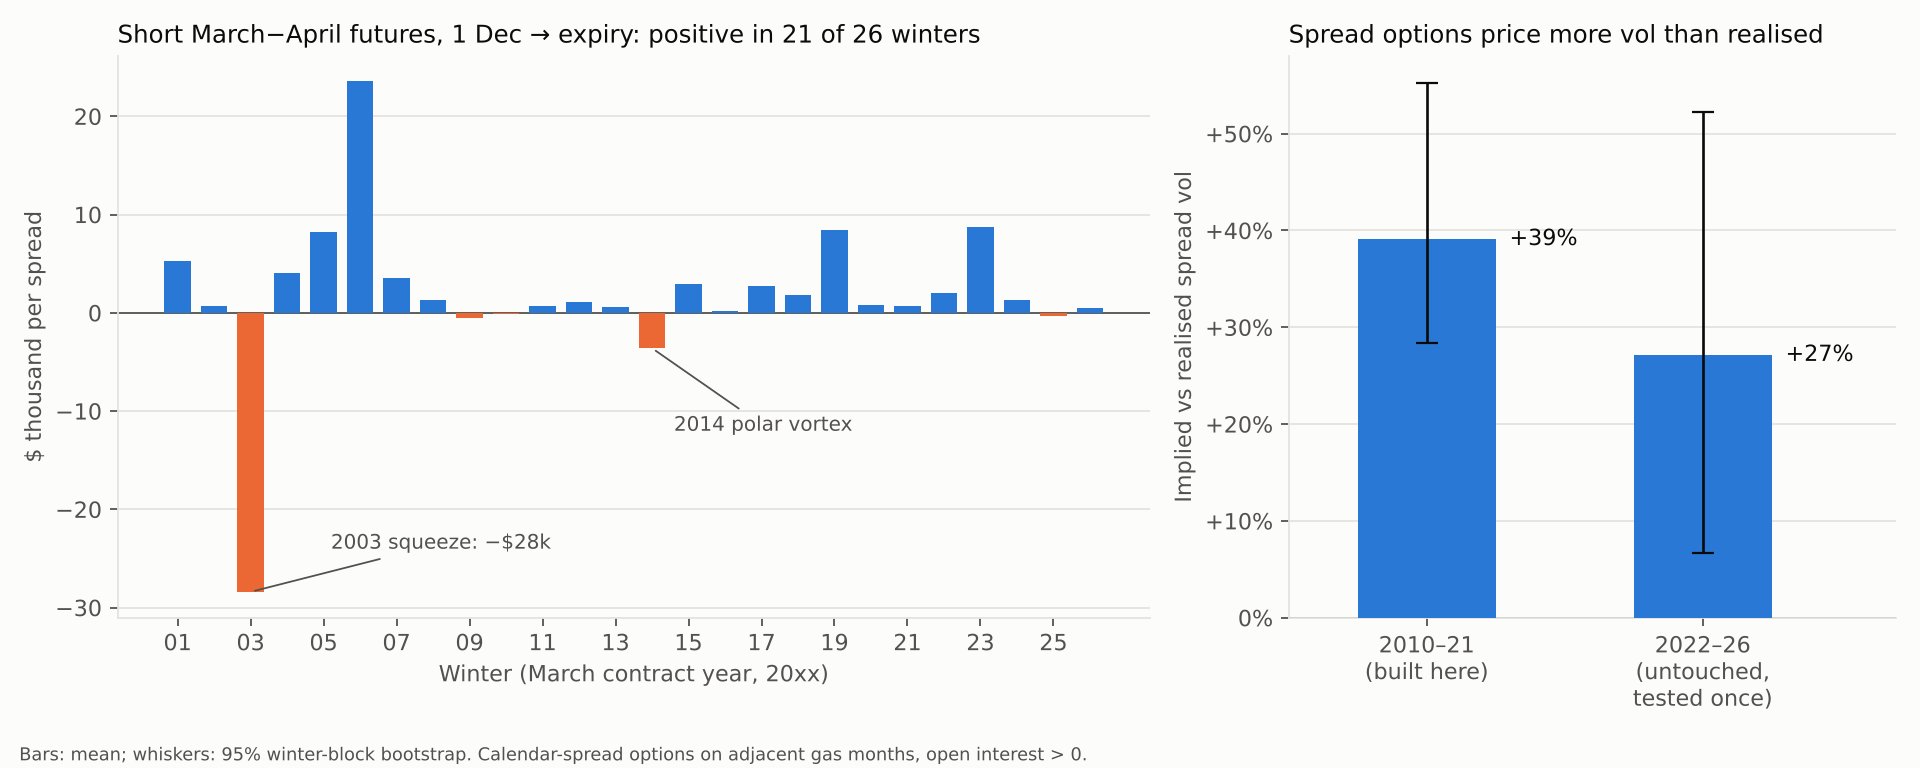
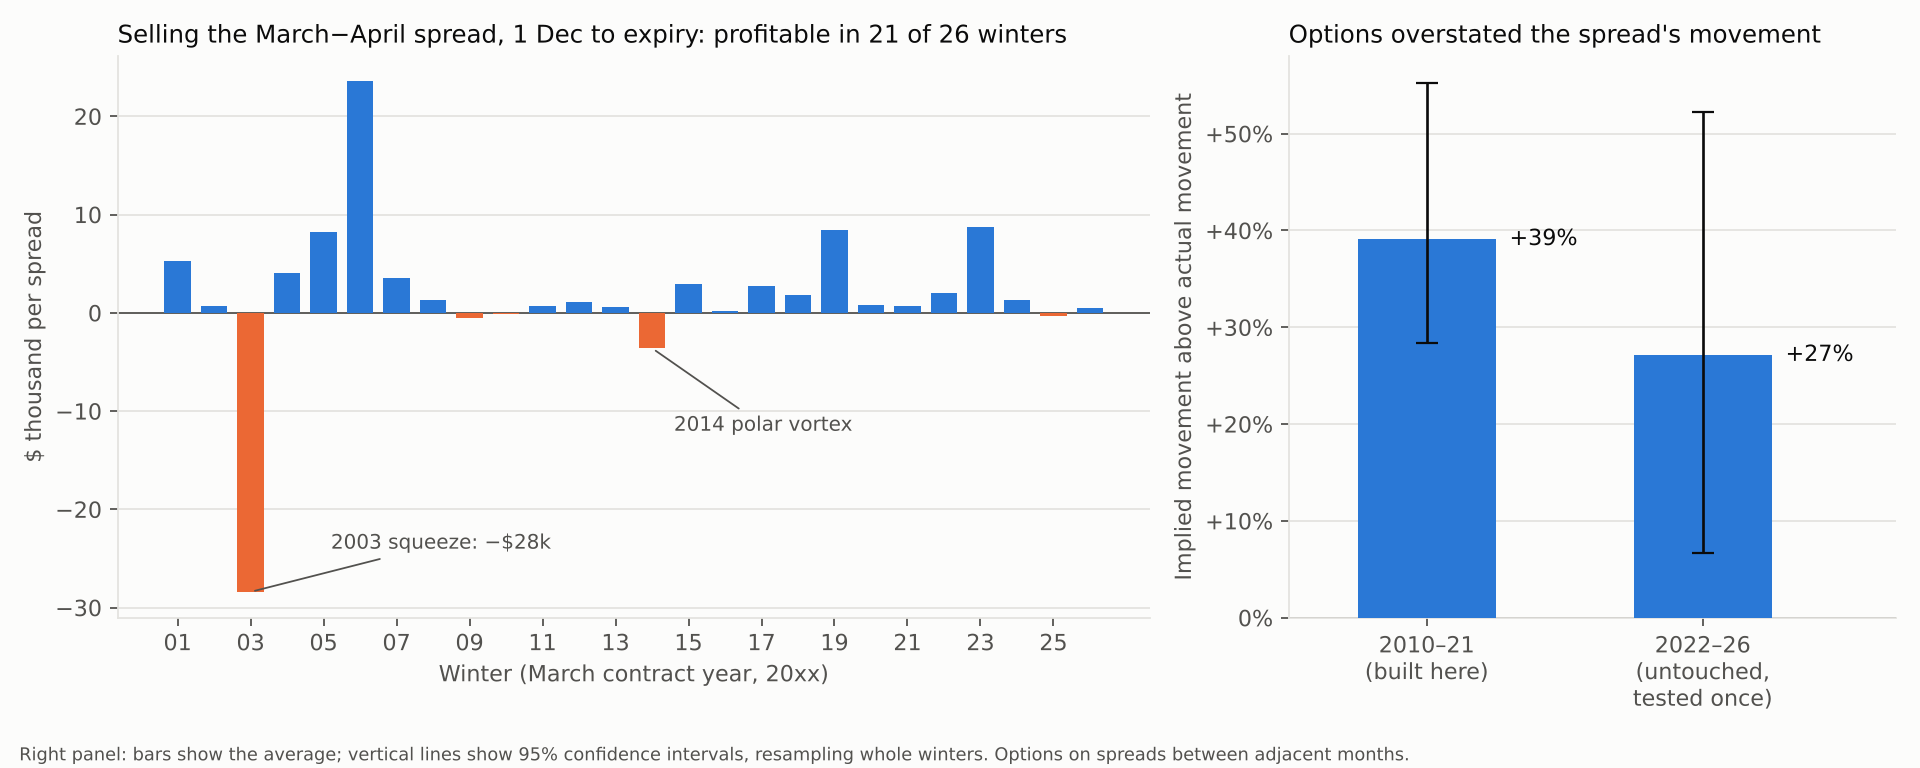
README: formal prose with a single line of argument; plainer figure labels
Claude-Session: https://claude.ai/code/session_01K58r6NjGjQ3upEwF6Et9KU

diff --git a/src/tool/hero_figure.py b/src/tool/hero_figure.py
@@ -16,7 +16,7 @@ a.axhline(0, color=INK2, lw=0.8)
 a.grid(axis="y", color=GRID, lw=0.8, zorder=0)
 a.set_xticks(h.Y[::2]); a.set_xticklabels([f"{y%100:02d}" for y in h.Y[::2]])
 a.set_ylabel("$ thousand per spread")
-a.set_title(f"Short March−April futures, 1 Dec → expiry: positive in {int((h.pnl>0).sum())} of {len(h)} winters",
+a.set_title(f"Selling the March−April spread, 1 Dec to expiry: profitable in {int((h.pnl>0).sum())} of {len(h)} winters",
             loc="left", color=INK, fontsize=11)
 a.annotate("2003 squeeze: −$28k", (2003, -28.4), xytext=(2005.2, -24), color=INK2, fontsize=9,
            arrowprops=dict(arrowstyle="-", color=INK2, lw=0.8))
@@ -35,11 +35,11 @@ for i, v in enumerate(pct(m)):
     b.text(i + 0.3, v, f"+{v:.0f}%", va="center", color=INK, fontsize=10)
 b.axhline(0, color=INK2, lw=0.8); b.grid(axis="y", color=GRID, lw=0.8, zorder=0)
 b.set_xticks([0, 1]); b.set_xticklabels(lab); b.set_xlim(-0.5, 1.7)
-b.set_ylabel("Implied vs realised spread vol")
+b.set_ylabel("Implied movement above actual movement")
 b.yaxis.set_major_formatter(matplotlib.ticker.FuncFormatter(lambda v, _: f"+{v:.0f}%" if v > 0 else f"{v:.0f}%"))
-b.set_title("Spread options price more vol than realised", loc="left", color=INK, fontsize=11)
+b.set_title("Options overstated the spread's movement", loc="left", color=INK, fontsize=11)
 for s in ("top", "right"): b.spines[s].set_visible(False)
-fig.text(0.01, 0.01, "Bars: mean; whiskers: 95% winter-block bootstrap. Calendar-spread options on adjacent gas months, open interest > 0.",
+fig.text(0.01, 0.01, "Right panel: bars show the average; vertical lines show 95% confidence intervals, resampling whole winters. Options on spreads between adjacent months.",
          color=INK2, fontsize=8)
 fig.tight_layout(rect=(0, 0.04, 1, 1))
 fig.savefig("reports/figures/hero.png", dpi=160)

diff --git a/README.md b/README.md
@@ -4,146 +4,114 @@
 
 ## Abstract
 
-This paper asks where weather and storage information shows up in US natural gas futures and options. Mostly it does not show up where I expected: storage surprises barely move the March–April spread, and none of the relative-value rules I tested survived a holdout.
-
-One effect survives every test. The market charges an insurance premium against an end-of-winter squeeze, and it appears in both futures and options:
-- **Futures.** Shorting the March–April spread from 1 December to expiry earned money in 21 of 26 winters (2001–2026), with rare but large losses.
-- **Options.** Calendar-spread options priced 39% more spread volatility than was realised in 2010–2021. On 2022–2026, a period held back and tested once, they priced 27% more (95% CI 7% to 52%).
-
-Along the way I built a weekly storage forecast that runs live, and a monitor that reads the premium from option prices each week.
+This paper asks whether public information about weather and gas storage can be used to anticipate prices in the US natural gas market. Storage proves to be quite predictable from the weather. Prices, however, respond to the weather well before the storage data confirm its effect, so a storage forecast says little about prices that the market does not already know. One effect nonetheless survives every test: the market pays a persistent premium for protection against a gas shortage at the end of winter. Selling the March–April futures spread in December and holding it to expiry earned money in 21 of 26 winters. Options on these spreads were priced for 27% to 39% more price movement than subsequently occurred, including in a period that was set aside and tested only once. The paper also describes a weekly monitor that measures the size of this premium from current option prices.
 
 ![Figure 1](reports/figures/hero.png)
-*Figure 1. Left: P&L of one short March–April futures spread, held from 1 December to the March option expiry, by winter. Right: how much more spread volatility calendar-spread options implied than was later realised, in the development period and in the untouched holdout. Whiskers are 95% winter-block bootstrap intervals.*
+*Figure 1. Left: the profit or loss from selling one March–April futures spread on 1 December and holding it to expiry, for each winter from 2001 to 2026. Right: the extent to which options on these spreads overstated the spread's subsequent movement, before and after 2022. The vertical lines show 95% confidence intervals.*
 
-## 1. Motivation
+## 1. The question
 
-US working gas in storage is drawn down through the winter, and March is the last delivery month of the heating season. When end-March storage looks short, the March contract can trade far above April; traders call this spread the widowmaker. Anyone short winter gas faces a costly tail from a cold February or an unexpected supply loss, so they should be willing to pay to hedge it.
+Natural gas is stored through the summer and withdrawn through the winter, so the amount left in storage at the end of March summarises how demanding the winter has been. The links are straightforward. Weather drives demand, demand drives withdrawals from storage, and the expected level of storage should in turn be reflected in futures prices.
 
-If hedgers consistently pay more than the risk is worth, the spread and its options should be overpriced on average. Sellers would then collect small gains most winters and take occasional severe losses.
+Each link in this chain can be measured with public data. The aim of the project was to find how far along the chain a forecast remains useful. A forecast of the weather may well predict storage, but it is a separate question whether a forecast of storage predicts prices. If it does, the chain yields a trading signal. If it does not, the point at which it breaks says something about how the market works.
 
-I did not start from this hypothesis. I set out to test each link of the chain from weather to storage to the futures curve. The premium is what remained once the other links failed out of sample.
+## 2. Method
 
-## 2. Data and testing discipline
+Every test followed the same procedure, designed to prevent the results from being shaped after the fact.
 
-**Data.**
-- Physical data are public: EIA weekly and monthly storage, Open-Meteo temperatures, NOAA GEFS ensemble forecasts and CPC outlooks.
-- Futures and option settlements are CME data obtained through Databento. They are licensed, so this repository contains only code and derived results.
+1. **Each hypothesis was written down before any results were seen**, together with the rule for judging whether it had succeeded. These records, and the exact code used, are committed to this repository with timestamps.
+2. **The models were developed on data from 2010 to 2021.** The years 2022 to 2026 were withheld and used for a single final test. The futures results were also tested once on the earlier decade, 2000 to 2010.
+3. **Uncertainty was measured winter by winter.** Daily observations within one winter are closely related, and treating them as independent would overstate the strength of the evidence.
+4. **Every final result is published, whether or not it supported the hypothesis.**
 
-**Discipline.** Each study followed the same rules:
-1. **Pre-registration.** Hypotheses, statistics and pass/fail thresholds were committed here before results were seen, and frozen code is identified by its hash.
-2. **Development vs holdout.** Models were developed on 2010–2021 and tested once on 2022–2026. The futures results were also tested once on 2000–2010.
-3. **Inference.** Confidence intervals come from a bootstrap that resamples whole winters, because observations within a winter are not independent.
-4. **Reporting.** Every holdout result, including the failures, is published in [`reports/holdout/`](reports/holdout/).
+The weather and storage data are public and come from the US Energy Information Administration and the US weather service. The futures and options prices are exchange data purchased from a data vendor. Because those prices are licensed, the repository contains the code and the results derived from them but not the prices themselves.
 
-## 3. Results
+## 3. Where the chain holds and where it breaks
 
-### 3.1 The futures premium
+The physical links of the chain hold well.
+- A simple regression predicts each week's change in US gas storage from temperatures, weighted by where gas is consumed. Over 253 weeks that the model had not seen, its average error was 13.8 billion cubic feet, compared with 31.3 for the conventional benchmark, the five-year average.
+- When the same model is run forward through the weather of past winters, it produces ranges for end-of-season storage that contain the true outcome about as often as they claim to.
+- Since 18 November 2026 the model has published a forecast every week, before each official storage report.
 
-Take a trader who sells one March–April spread (10,000 MMBtu) on the first trading day of December and holds it to the March option expiry.
-- **Win rate.** The trade made money in 21 of 26 winters.
-- **Size of gains.** The median gain was $1,200 and the mean $1,800.
-- **The losses.** These are what make it a premium rather than an anomaly. In 2003 a late-winter squeeze cost $28,400 per spread, roughly sixteen average winters of gains. The 2014 polar vortex cost $3,600.
-- **Holdout.** The pattern held in 2000–2010, a decade I examined only at the final test ([v4 summary](reports/holdout/SUMMARY_v4.md)).
+The link from storage to prices does not hold in any way that can be exploited.
+- Storage reports that differ from normal explain almost none of the movement in the March–April price spread.
+- The reason is timing. Prices respond to weather forecasts as soon as those forecasts are issued, often a week or more before the storage report confirms their effect. By the time storage is known, the information is already in the price.
+- Consistent with this, none of the trading rules built on storage survived the final test. A rule that bet on the reversal of unexplained price moves worked from 2010 to 2021 but failed in the earlier decade.
+- Option prices did not predict the direction of futures prices either.
 
-### 3.2 The options premium
+What remained after these tests was not a way of forecasting prices but a regularity in how the market prices risk. That regularity is the subject of the next section.
 
-If the spread carries a squeeze premium, options on it should be priced as if the spread will move more than it does.
+## 4. What survives: a premium for protection against a shortage
 
-**Measure.** For each calendar-spread option with open interest, I compared its implied normal volatility with the volatility the spread actually realised over the option's remaining life.
+March is the last month of the heating season. If storage runs short, the price of March gas can rise far above the price of April gas, and anyone committed to delivering gas in March can suffer large losses. Such participants have good reason to pay for protection against this outcome. If they consistently pay more than the protection is worth, those who sell it should earn small profits in most winters and suffer occasional severe losses. The evidence shows exactly this pattern, and it shows it in two separate markets.
 
-**Results.**
+**The futures market.** Selling one March–April futures spread on the first trading day of December and holding it to expiry earned money in 21 of the 26 winters from 2001 to 2026. The typical (median) gain was about $1,200 per contract and the average about $1,800. The losses reveal the nature of the trade. In 2003 a late-winter shortage cost $28,400 per contract, roughly sixteen average winters of gains. The pattern also held from 2000 to 2010, a decade examined only in the final test.
 
-| Sample | Mean log ratio (implied / realised) | Implied vs realised |
-| --- | --- | --- |
-| Development, 2010–2021 | +0.33 | 39% richer |
-| Holdout, 2022–2026 (frozen in advance, run once; includes the 2022 energy crisis) | +0.24 | 27% richer (95% CI 7% to 52%) |
-| Holdout, March–April only | +0.29 | about 34% richer |
+**The options market.** If the spread carries a premium for protection, options on the spread should be priced as though the spread will move more than it actually does. To test this, the movement implied by each option's price was compared with the movement the spread actually showed before the option expired. Between 2010 and 2021, options implied 39% more movement than occurred. For the withheld years 2022 to 2026, the test was fixed in advance and run once. Options implied 27% more movement than occurred, with a 95% confidence interval of 7% to 52%, and the result held through the 2022 energy crisis.
 
-**Can the premium be harvested?** That is not yet established. A short, delta-hedged straddle earned $176 per trade in the holdout, but the interval includes zero and the same trade lost money in development ([v5 summary](reports/holdout/SUMMARY_v5.md)).
+Whether this premium can be collected after trading costs has not been established. A strategy that sold these options was profitable in the final test, but not by a margin large enough to rule out chance, and it lost money in the earlier period.
 
-### 3.3 Forecasting storage
-
-The physical side of the chain is far easier to forecast than prices.
-
-**Weekly change.** A ridge regression on gas-weighted degree days and seasonal terms predicts the weekly storage change.
-- Out of sample, over 253 weeks, its mean absolute error is 13.8 Bcf.
-- The five-year-average benchmark misses by 31.3 Bcf.
-- The improvement is 11 to 24 Bcf (95% CI).
-
-**End of season.** Simulating the model forward through historical weather years gives calibrated ranges: the 80% intervals covered the outcome 85–93% of the time.
-
-**Live.** Since 18 November 2026, the model has published a forecast every Wednesday before the EIA report, timestamped by an automated commit ([live record](reports/live_forecasts.csv)).
-
-## 4. What did not work
-
-The negative results mark the boundaries of the premium:
-- **Storage surprises.** Relative to normal, they explain almost none of the March–April spread's moves (holdout R² of 0.02). The curve has already moved on weather forecasts before the storage report arrives.
-- **Relative-value rules.** None survived its holdout: not curve kinks, not implied versus forecast storage, not a storage-based fair value.
-- **Fading price shocks.** Shocks not explained by forecasts partly reversed in 2010–2021 and continued in 2000–2010.
-- **Options as predictors.** Option prices and Greeks did not predict futures returns.
-- **Outright options.** Volatility on single-month contracts was roughly fair.
-- **End-of-season forecast.** Its central forecast beats the five-year path only within about eight weeks of the season's end.
-
-## 5. A live monitor
+## 5. A monitor of the premium
 
 ![Figure 2](reports/tool/figures/monitor.png)
-*Figure 2. Left: end-March 2027 storage relative to its five-year average, implied by spread options (blue) and by a physical model (orange), on 17 November 2026. Right: each model's probability of a 400 Bcf deficit, averaged over the weekly readings of each winter.*
+*Figure 2. Left: the distribution of end-March 2027 storage relative to its five-year average, as implied by option prices (blue) and by a physical model of storage and weather (orange), on 17 November 2026. Right: each model's probability of a shortfall of 400 billion cubic feet or more, averaged over each winter.*
 
-From November to mid-February the monitor reports two readings each week.
+If the premium is real, its current size is worth knowing. The monitor measures it each week from November to mid-February, in two ways.
 
-**Option richness.**
-- On 17 November 2026, the March–April option implied a spread volatility of $0.47 a year. The spread had actually moved at $0.10 a year over the previous 20 days.
-- At the same point in past winters, implied volatility exceeded what the spread went on to realise in 10 of 13 cases, typically by about two times.
+**First, it compares the movement implied by current option prices with the movement the spread is actually showing.**
+- On 17 November 2026, the options implied movement of about 47 cents a year. Over the previous four weeks, the spread had moved at about 10 cents a year.
+- At the same point in past winters, the options overstated the spread's subsequent movement in 10 of 13 cases, typically by a factor of two.
 
-**Scarcity odds.**
-- The monitor converts the option-implied distribution of the spread into odds for end-March storage, and sets them beside a physical model built from storage, weather forecasts and analog winters.
-- Today the options imply a 12% chance of a deficit of 400 Bcf or more; the physical model says 9%.
-
-**Validation of the scarcity odds.** I tested these odds before using them ([test](reports/tool/GATE.md), [result](reports/tool/GATE_RESULT.md)).
-- They lost to the historical base rate on 2022–2026: no deficit occurred, yet the options priced odds of 15–25% every year.
-- That is consistent with a premium, but five quiet winters cannot separate a premium from a lack of skill.
-- So the monitor describes what the market is pricing, not where storage will end up.
+**Second, it translates option prices into the probability that the market assigns to a storage shortfall, and sets this beside the probability given by the physical model.**
+- On 17 November 2026, the options implied a 12% chance that end-March storage would fall 400 billion cubic feet or more below its five-year average. The physical model gave 9%.
+- This second measure was tested before use, and it failed.
+  - From 2022 to 2026 no such shortfall occurred, yet the options assigned it a probability of 15% to 25% every year. A simple historical average therefore proved more accurate.
+  - The failure is consistent with a premium, since the market once again paid for protection it did not need. Five uneventful winters, however, cannot distinguish a premium from a lack of skill.
+  - The monitor therefore reports what the market is pricing, and makes no claim about where storage will end up.
 
 ## 6. Conclusion
 
-Weather and storage are forecastable, but by the time that information is confirmed, prices already reflect it. What survives out of sample is a premium for bearing squeeze risk, visible in both futures and options: profitable on average and dangerous in the tail.
+The chain from weather to prices holds in its physical links and breaks where prices enter. Storage can be forecast, but prices have already responded to the weather that drives it. What survives is not a means of predicting prices but a regularity in how the market prices risk. Buyers of protection against a late-winter shortage pay more than the protection turns out to be worth, in futures and in options alike, and the sellers of that protection are occasionally exposed to severe losses.
 
-Three questions remain open, and the monitor and live records are set up to answer them:
-- Can the option premium be harvested after costs?
-- Does its size vary predictably with storage and weather?
-- Can a physical fair value time it?
+Three questions remain open:
+- whether the premium can be collected after costs;
+- whether its size changes predictably with storage and weather;
+- whether a physical estimate of fair value can indicate when the premium is largest.
+
+The weekly monitor and the live forecast record are designed to answer these questions as new winters arrive.
 
 <details>
 <summary>Appendix: specifications, data and reproduction</summary>
 
 **Weekly storage model.**
-- **Features:**
-  - gas-weighted heating and cooling degree days, with their anomalies and squares;
+- *Inputs:*
+  - heating and cooling degree days weighted by gas consumption, together with their deviations from normal and their squares;
   - seasonal terms;
   - the five-year average change;
   - recent forecast errors;
-  - a holiday flag.
-- **Fitting:** ridge regression with α = 0.1, chosen by validation error on 2018–2021 from a grid of 0.001 to 100, and refit weekly.
-- **Benchmark model:** gradient boosting (learning rate 0.03, 7 leaves, 300 iterations, minimum leaf 20, L2 1.0, refit every four weeks) scored 14.6 Bcf. The 0.9 Bcf difference is not significant (CI −0.9 to 2.8), so the simpler model is used.
-- The scenario model and the live job use the same specification.
+  - a holiday indicator.
+- *Fitting:* ridge regression with a penalty of 0.1, chosen by validation error on 2018–2021 from a grid of 0.001 to 100, and refit weekly.
+- *Comparison:* a gradient-boosting model (learning rate 0.03, 7 leaves, 300 iterations, minimum leaf size 20, L2 penalty 1.0, refit every four weeks) had an error of 14.6 billion cubic feet. The 0.9 difference from the ridge model is not statistically significant (interval −0.9 to 2.8), so the simpler model is used. The scenario model and the live job use the same specification.
 
 **End-of-season scenarios.**
-- About 20 historical weather years, each re-centred on the latest 10-year normal.
+- About 20 historical weather years, each adjusted to the latest 10-year normal.
 - Out-of-sample errors are resampled in four-week blocks from the same half of the year.
-- The result is an empirical scenario distribution, not a probabilistic weather forecast.
+- The result is a distribution of historical scenarios rather than a probabilistic weather forecast.
 
 **Monitor.** Three components ([integration notes](reports/tool/integration.md)):
-- a risk-neutral density of the spread, from calendar-spread option settlements;
-- a walk-forward map from spread to storage, fitted on winters since 1994;
-- an analog physical model.
+- a probability distribution for the spread, derived from option prices;
+- a map from the spread to end-March storage, fitted on winters since 1994 and updated each year using only past data;
+- a physical model based on storage, weather forecasts and comparable past winters.
+
+The frozen test and its result are in [GATE.md](reports/tool/GATE.md) and [GATE_RESULT.md](reports/tool/GATE_RESULT.md).
 
 | Path | Contents |
 | --- | --- |
 | `src/model1.py`, `src/model2.py`, `src/live.py` | Weekly model, scenarios, live job |
-| `src/collect/` | Data collectors run by GitHub Actions |
-| `src/v4/`, `src/v5/` | Weather-news and options studies |
-| `src/tool/` | Monitor, gate test, figures |
-| `tests/` | No-look-ahead checks |
+| `src/collect/` | Data collection, run by GitHub Actions |
+| `src/v4/`, `src/v5/` | Weather-forecast and options studies |
+| `src/tool/` | Monitor, final test, figures |
+| `tests/` | Checks that no forecast uses future data |
 
 ```
 pip install -r requirements.txt
